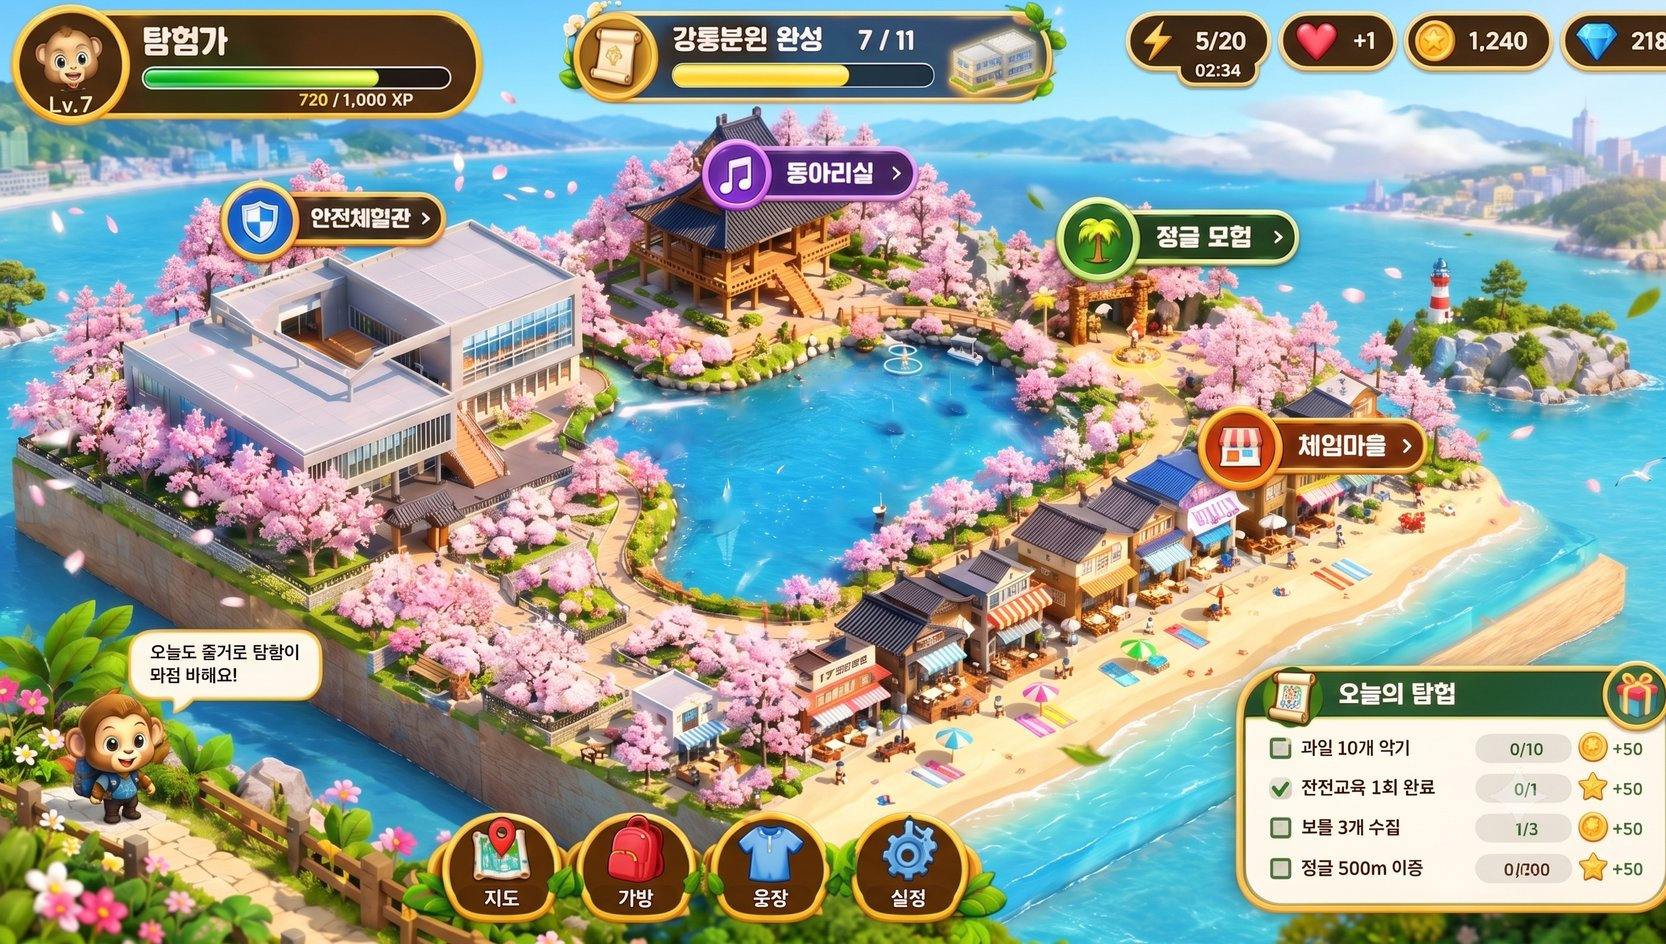
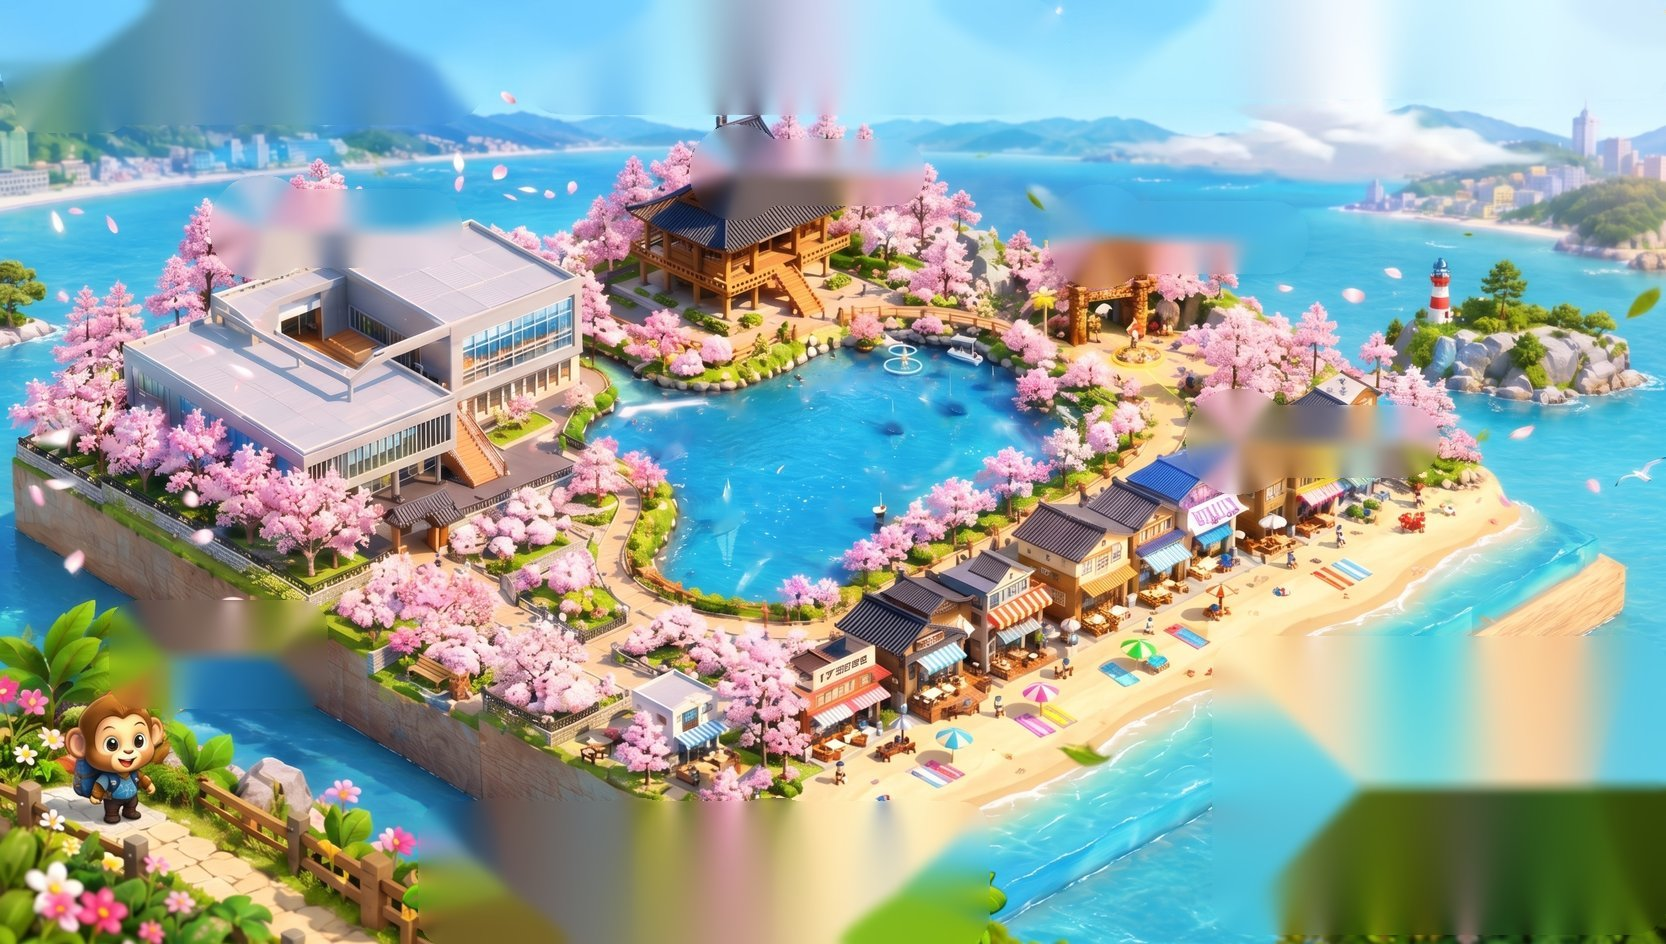
Add files via upload

diff --git a/index.html b/index.html
@@ -148,6 +148,9 @@
   .avnow{width:110px;height:110px;margin:.3em auto;border-radius:50%;background:radial-gradient(circle at 40% 35%,#fff8d6,#f5c860);border:5px solid #e9b949;display:flex;align-items:center;justify-content:center;overflow:hidden;font-size:64px}
   .avnow img{width:100%;height:100%;object-fit:cover}
   .iconpick.big .ip{font-size:40px;width:68px;height:68px}
+  .vlogo{width:1.25em;height:1.25em;background:#fff;border-radius:50%;padding:.1em;object-fit:contain;vertical-align:middle}
+  .logoh{display:flex;align-items:center;justify-content:center;gap:.4em;line-height:1.1} .logoh span{text-align:left}
+  .hlogo{width:1.9em;height:1.9em;background:#fff;border-radius:50%;padding:.12em;object-fit:contain;box-shadow:0 3px 0 rgba(0,0,0,.25)}
   .vgrid{display:grid;grid-template-columns:repeat(auto-fit,minmax(clamp(130px,22vw,190px),1fr));gap:12px;margin:.6em 0}
   .vcard{font-family:var(--font);border:0;border-radius:20px;padding:12px 8px;cursor:pointer;background:var(--c);color:#fff;box-shadow:0 5px 0 rgba(0,0,0,.3);text-shadow:0 1px 2px rgba(0,0,0,.3)}
   .vcard:active{transform:translateY(3px);box-shadow:0 2px 0 rgba(0,0,0,.3)}
@@ -1977,7 +1980,7 @@ function renderBoss(){
 /* ================= 로비 (방) ================= */
 const TOWN = {w:1024, y0:300, y1:990};   // 강릉분원 디오라마 (assets/town.jpg, 원래 그림 좌표)
 const DOORS = [   // 마을 간판 4개 (x, y = 들어가는 곳 · lx, ly = 간판 위치)
-  {id:'safety',  name:'안전체험관', icon:'🛡', col:'#1e6fd9', desc:'안전 약속 배우기', x:340, y:618, lx:250, ly:480},
+  {id:'safety',  name:'강릉분원 안전체험관', icon:'🛡', col:'#1e6fd9', desc:'안전 약속 배우기', x:340, y:618, lx:250, ly:480},
   {id:'club',    name:'동아리실',   icon:'🎵', col:'#7b3fd1', desc:'리듬 게임', x:548, y:478, lx:430, ly:410},
   {id:'jungle',  name:'정글 모험',  icon:'🌴', col:'#2e8b3a', desc:'정글 점프 출발', x:640, y:492, lx:690, ly:446},
   {id:'village', name:'체험마을',   icon:'🏪', col:'#d9452b', x:660, y:726, lx:700, ly:612, screen:'village'}
@@ -2164,7 +2167,7 @@ const LB_SPOTS = [   // 누를 수 있는 곳 (간판 · 건물)
   {id:'village', sign:[1186,398,1428,484], area:[890,486,1200,590]}
 ];
 const LB_SIGNS = [   // 새로 그리는 간판 (그림 속 원래 간판 위치를 재어서 정확히 덮어요)
-  {id:'safety',  cx:261, cy:228, r:39, h:60, right:452, col:['#4f9dff','#1552c8'], icon:'🛡', text:'안전체험관'},
+  {id:'safety',  cx:261, cy:228, r:39, h:60, right:452, col:['#4f9dff','#1552c8'], icon:'🛡', text:'안전체험관', sub:'강릉분원', logo:true},
   {id:'club',    cx:734, cy:173, r:34, h:54, right:914, col:['#c28bff','#6a2bc9'], icon:'🎵', text:'동아리실'},
   {id:'jungle',  cx:1093, cy:237, r:37, h:58, right:1294, col:['#7ee070','#1f7a2c'], icon:'🌴', text:'정글 모험'},
   {id:'village', cx:1231, cy:440, r:39, h:58, right:1424, col:['#ff8a5c','#c2331b'], icon:'🏪', text:'체험마을'}
@@ -2384,7 +2387,7 @@ function lbDrawWaterFx(F, t){   // 물 위의 파문 · 물보라 · 바람 결 
 function mascotTips(){   // 마스코트가 오늘 할 일에 맞춰 하는 말
   const m = dm(), tips = [];
   if(!m.got.fruit) tips.push('정글에서 과일 10개에 도전해 볼래?');
-  if(!m.got.safety) tips.push('안전체험관에서 안전 약속을 배워 보자!');
+  if(!m.got.safety) tips.push('강릉분원 안전체험관에서 안전 약속을 배워 보자!');
   if(!m.got.chest) tips.push('정글에서 보물상자를 3개 찾아봐!');
   if(!m.got.dist) tips.push('정글 모험을 떠나 500m를 달려 보자!');
   const n = DEX.counts.filter(c => c > 0).length;
@@ -2492,8 +2495,25 @@ let lbComp = null, lbCompKey = '';
 function lbStaticKey(){
   const L = S.lobby, m = dm(), pr = curProf(), lv = townLevel(), tips = mascotTips();
   const anim = (L.pop && Object.values(L.pop).some(v => v > 0)) || (L.sparks && L.sparks.length);
-  return [LBS.id, LBS.img.ok, cv.width, cv.height, W, pr.name, pr.icon, pr.photo ? pr.photo.length + (faceImg(pr) ? 1 : 0) : 0, lv.lv, lv.xp, DEX.counts.join(''), vit(), DEX.bonusLives || 0, DEX.coins, bagCount(),
+  return [LBS.id, LBS.img.ok, artLogoGN.ok, cv.width, cv.height, W, pr.name, pr.icon, pr.photo ? pr.photo.length + (faceImg(pr) ? 1 : 0) : 0, lv.lv, lv.xp, DEX.counts.join(''), vit(), DEX.bonusLives || 0, DEX.coins, bagCount(),
     DAILY_MISSIONS.map(ms => `${Math.floor(m[ms.k] || 0)}${m.got[ms.k] ? 1 : 0}`).join(','), m.gift, tips[L.tipI % tips.length], L.ui.avHover ? 1 : 0, anim ? S.time : 0].join('|');
+}
+const lbClipCache = {};
+function lbUiClip(){   // 정보판·간판·버튼·카드 자리를 뺀 나머지 영역
+  if(lbClipCache[LBS.id]) return lbClipCache[LBS.id];
+  if(typeof Path2D === 'undefined') return null;
+  const O = LB_UIOFF[LBS.id] || {}, off = e => O[e] || [0, 0], p = new Path2D();
+  p.rect(-2000, -2000, LB_W + 4000, LB_H + 4000);
+  const box = (e, x0, y0, x1, y1) => { const [dx, dy] = off(e); p.rect(x0 + dx, y0 + dy, x1 - x0, y1 - y0); };
+  const circ = (e, x, y, r) => { const [dx, dy] = off(e); p.moveTo(x + dx + r, y + dy); p.arc(x + dx, y + dy, r, 0, Math.PI*2); };
+  box('profile', 4, 0, 490, 126); circ('profile', 70, 62, 64);
+  box('quest', 548, 0, 1058, 108); box('quest', 880, 106, 1140, 154);
+  box('pills', 1108, 0, 1666, 98);
+  for(const sg of LB_SIGNS){ circ(sg.id, sg.cx, sg.cy, sg.r + 9); box(sg.id, sg.cx, sg.cy - sg.h/2 - 4, sg.right + 6, sg.cy + sg.h/2 + 5); }
+  box('btns', 416, 800, 988, 944);
+  box('card', 1216, 644, 1666, 928);
+  box('bubble', 110, 604, 324, 716);
+  return lbClipCache[LBS.id] = p;
 }
 function lbDrawChip(){   // 오늘의 날씨 칩 (누르면 다른 장면) — 바다 일렁임보다 위에 그려요
   const L = S.lobby, O = (LB_UIOFF[LBS.id] || {}).quest || [0, 0];
@@ -2529,6 +2549,7 @@ function renderLobby(){
   const F = L.fx;
   lbDrawStatic();
   ctx.save(); ctx.translate(f.ox, f.oy); ctx.scale(f.k, f.k);
+  const uiClip = lbUiClip(); ctx.save(); if(uiClip) ctx.clip(uiClip, 'evenodd');
   const sea = lobbySea();
   if(sea && !LIGHT){ const amp = LBS.def.fx.wind ? 2.2 : 1.4, step = TOUCH_DEV ? 8 : 6; for(let y=130; y<LB_H; y+=step){ const dx = Math.sin(y*0.085 + t*(LBS.def.fx.wind ? 3.4 : 2.1))*amp + Math.sin(y*0.023 - t*1.2)*1.0; ctx.drawImage(sea, 0, y, LB_W, step, dx, y, LB_W, step); } }
   for(let i=0;i<LBS.glints.length;i++){ const [gx, gy] = LBS.glints[i], ph = (t*0.5 + hash(i)*5) % 1, a = Math.max(0, Math.sin(ph*Math.PI*2))*(LBS.def.fx.rain || LBS.def.fx.fog ? 0.35 : 1); if(a < 0.3) continue; const s2 = 1.5 + a*2.5;
@@ -2548,6 +2569,7 @@ function renderLobby(){
     if(S.petKey !== 'none'){ ctx.save(); ctx.translate(S.pet.x, S.pet.y); ctx.scale(0.8, 0.8); ctx.translate(-S.pet.x, -S.pet.y); drawPetInWorld(); ctx.restore(); }
     S.camX = keep; }
   lbDrawOverlayFx(F, t);
+  ctx.restore();   // 잘라내기 끝
   lbDrawChip();
   { const O = LB_UIOFF[LBS.id] || {}, pulse = 0.5 + Math.sin(S.time*0.1)*0.5;   // 움직이는 강조 (간판 빛 · 선물 · 마스코트)
     for(const sg of LB_SIGNS){ const on = (L.hover && L.hover.id === sg.id) || (L.press && L.press.door === sg.id) || (L.near && L.near.id === sg.id), [ox, oy] = O[sg.id] || [0, 0];
@@ -2586,6 +2608,7 @@ facePicker.onchange = () => {
   im.src = url;
 };
 function faceHTML(p){ return p && p.photo ? `<img class="face" src="${p.photo}" alt="">` : (p ? p.icon : ''); }
+const artLogoGN = artImg('assets/logo_gn.png');   // 강릉분원 로고
 function lbSign(sg, hov){   // 간판 새로 그리기 (그림 속 깨진 글자를 덮어요)
   const {cx, cy, r, right, col, icon, text} = sg;
   ctx.save(); ctx.textBaseline = 'middle';
@@ -2593,12 +2616,18 @@ function lbSign(sg, hov){   // 간판 새로 그리기 (그림 속 깨진 글자
   ctx.fillStyle = 'rgba(0,0,0,.3)'; rr(x0 + 2, y0 + 5, w, h, h/2); ctx.fill();
   const g = ctx.createLinearGradient(0, y0, 0, y0 + h); g.addColorStop(0, '#4d3016'); g.addColorStop(1, '#231408'); ctx.fillStyle = g; rr(x0, y0, w, h, h/2); ctx.fill();
   const gg = ctx.createLinearGradient(0, y0, 0, y0 + h); gg.addColorStop(0, '#ffe8a0'); gg.addColorStop(1, '#b8801f'); ctx.strokeStyle = gg; ctx.lineWidth = 4.5; ctx.stroke();
-  ctx.font = `bold ${h > 56 ? 27 : 25}px ${FONT}`; ctx.fillStyle = '#fff6dc'; ctx.textAlign = 'left'; ctx.fillText(text, cx + r + 12, cy + 1, right - cx - r - 44);
+  if(sg.sub){   // 두 줄: 작은 '강릉분원' + 큰 이름
+    ctx.textAlign = 'left'; ctx.font = `bold 17px ${FONT}`; ctx.fillStyle = '#ffe07a'; ctx.fillText(sg.sub, cx + r + 12, cy - 13, right - cx - r - 44);
+    ctx.font = `bold 25px ${FONT}`; ctx.fillStyle = '#fff6dc'; ctx.fillText(text, cx + r + 12, cy + 12, right - cx - r - 44);
+  } else { ctx.font = `bold ${h > 56 ? 27 : 25}px ${FONT}`; ctx.fillStyle = '#fff6dc'; ctx.textAlign = 'left'; ctx.fillText(text, cx + r + 12, cy + 1, right - cx - r - 44); }
   ctx.font = `bold 26px ${FONT}`; ctx.fillStyle = '#ffe07a'; ctx.fillText('›', right - 24, cy);
   ctx.fillStyle = 'rgba(0,0,0,.3)'; ctx.beginPath(); ctx.arc(cx + 2, cy + 4, r + 5, 0, 6.29); ctx.fill();
   const cg = ctx.createRadialGradient(cx - r*0.35, cy - r*0.4, 3, cx, cy, r + 4); cg.addColorStop(0, '#ffffff'); cg.addColorStop(0.25, col[0]); cg.addColorStop(1, col[1]);
   ctx.fillStyle = cg; ctx.beginPath(); ctx.arc(cx, cy, r + 4, 0, 6.29); ctx.fill(); ctx.strokeStyle = gg; ctx.lineWidth = 5; ctx.stroke();
-  ctx.fillStyle = '#000'; ctx.font = `${r*1.05}px sans-serif`; ctx.textAlign = 'center'; ctx.fillText(icon, cx, cy + 2);
+  if(sg.logo && artLogoGN.ok){   // 분원 로고: 흰 동그라미 위에
+    ctx.fillStyle = '#ffffff'; ctx.beginPath(); ctx.arc(cx, cy, r - 1, 0, 6.29); ctx.fill();
+    const ls = r*1.62; ctx.drawImage(artLogoGN.img, cx - ls/2, cy - ls/2, ls, ls);
+  } else { ctx.fillStyle = '#000'; ctx.font = `${r*1.05}px sans-serif`; ctx.textAlign = 'center'; ctx.fillText(icon, cx, cy + 2); }
   ctx.restore();
 }
 function lbLiveInfo(){   // 그림 위 모든 정보판을 새로 그려요 (실제 상태와 연결)
@@ -2653,8 +2682,11 @@ function lbLiveInfo(){   // 그림 위 모든 정보판을 새로 그려요 (실
   // ── 간판 4개
   const O = LB_UIOFF[LBS.id] || {}, off = e => O[e] || [0, 0];
   for(const sg of LB_SIGNS){ ctx.save(); ctx.translate(...off(sg.id)); lbSign(sg); ctx.restore(); }
-  // ── 아래 버튼 4개
+  // ── 아래 버튼 4개 (나무 받침대 위에)
   ctx.save(); ctx.translate(...off('btns'));
+  { ctx.fillStyle = 'rgba(0,0,0,.28)'; rr(420, 818, 566, 118, 59); ctx.fill();
+    const pg = ctx.createLinearGradient(0, 810, 0, 930); pg.addColorStop(0, '#5b3a1a'); pg.addColorStop(1, '#2b1a0b'); ctx.fillStyle = pg; rr(418, 810, 566, 118, 59); ctx.fill();
+    ctx.strokeStyle = '#6b4414'; ctx.lineWidth = 7; ctx.stroke(); const bgd = ctx.createLinearGradient(0, 810, 0, 928); bgd.addColorStop(0, '#ffe8a0'); bgd.addColorStop(1, '#b8801f'); ctx.strokeStyle = bgd; ctx.lineWidth = 3.5; ctx.stroke(); }
   for(const b of LB_BTNS){ const r0 = 64;
     ctx.fillStyle = 'rgba(0,0,0,.3)'; ctx.beginPath(); ctx.arc(b.x + 2, b.y + 5, r0, 0, 6.29); ctx.fill();
     const bg = ctx.createRadialGradient(b.x - 15, b.y - 20, 5, b.x, b.y, r0); bg.addColorStop(0, '#6a4420'); bg.addColorStop(1, '#2c1a0a'); ctx.fillStyle = bg; ctx.beginPath(); ctx.arc(b.x, b.y, r0, 0, 6.29); ctx.fill();
@@ -4784,7 +4816,7 @@ function showScreen(type){
       <button class="go" id="goBtn">돌아가기</button>`;
   } else if(type === 'safety'){
     const seen = DEX.safeSeen || {};
-    html = `<h2>🦺 안전체험관</h2><p>🧒 재미있게 배우고, 안전하게 놀아요!</p>
+    html = `<h2 class="logoh"><img class="hlogo" src="assets/logo_gn.png" alt=""><span>강릉분원<br>안전체험관</span></h2><p>🧒 재미있게 배우고, 안전하게 놀아요!</p>
       <div class="bigacts">
         <button class="bigact" data-learn="spell" style="--c:#ff9800"><span>✏</span><b>과일 이름 쓰기</b><small>그림을 보고 글자를 순서대로 눌러요</small></button>
         <button class="bigact" data-learn="match" style="--c:#43a047"><span>🍎</span><b>과일 짝꿍 찾기</b><small>과일 그림과 이름을 짝지어요</small></button>
@@ -4811,8 +4843,8 @@ function showScreen(type){
       <button class="go" id="goBtn">완료</button>`;
   } else if(type === 'townMap'){
     const all = [...DOORS.filter(d => d.id !== 'village'), ...VILLAGE];
-    html = `<h2>🗺 마을 안내</h2><p class="keys">가고 싶은 곳을 바로 눌러요</p>
-      <div class="vgrid">${all.map(v => `<button class="vcard" data-tm="${v.id}" style="--c:${v.col}"><span>${v.icon}</span><b>${v.name}</b>${v.desc ? `<small>${v.desc}</small>` : ''}</button>`).join('')}</div>
+    html = `<h2>🗺 강릉분원 마을 안내</h2><p class="keys">가고 싶은 곳을 바로 눌러요</p>
+      <div class="vgrid">${all.map(v => `<button class="vcard" data-tm="${v.id}" style="--c:${v.col}"><span>${v.id === 'safety' ? '<img class="vlogo" src="assets/logo_gn.png" alt="">' : v.icon}</span><b>${v.name}</b>${v.desc ? `<small>${v.desc}</small>` : ''}</button>`).join('')}</div>
       <button class="go" id="goBtn">마을로</button>`;
   } else if(type === 'village'){
     html = `<h2>🏪 체험마을</h2><p class="keys">바닷가 가게 거리예요. 들어갈 곳을 골라요!</p>
